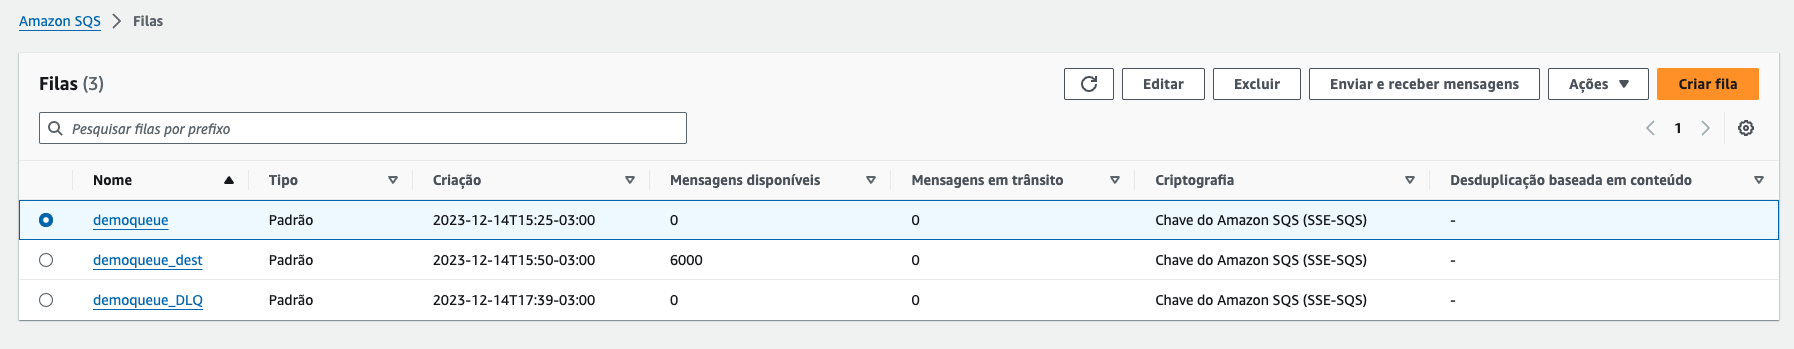
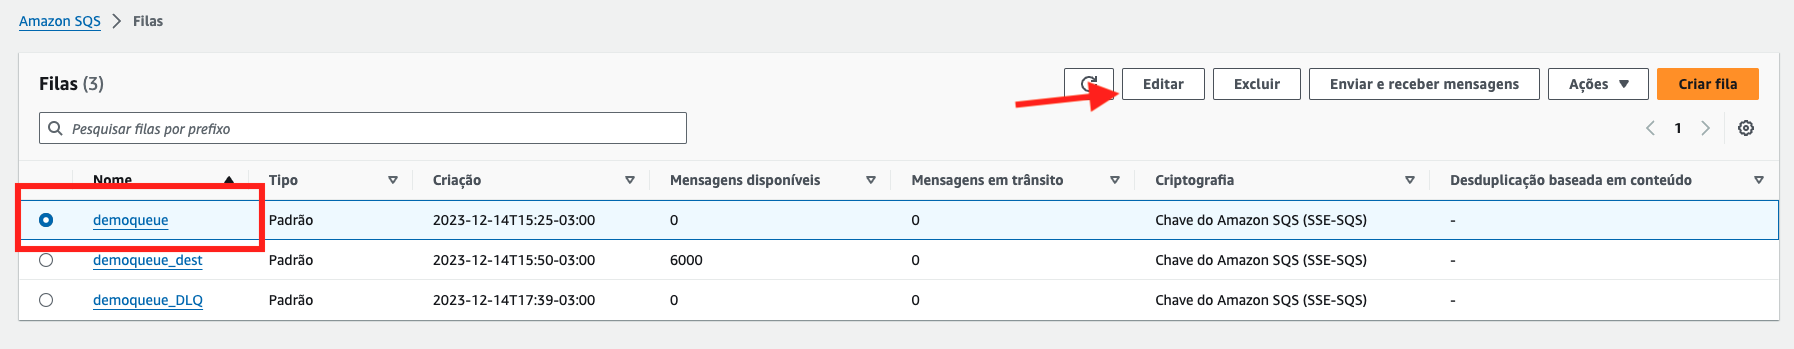
SQS DLQ

Changed region(s): [[0.0, 0.5158, 0.1561, 0.745], [0.5619, 0.2292, 0.6243, 0.3152]]

diff --git a/05-SQS/02 - DLQ/README.md b/05-SQS/02 - DLQ/README.md
@@ -2,15 +2,286 @@
 
 1. No terminal do IDE criado no cloud9 execute o comando `cd ~/environment/fiap-cloud-computing-tutorials/05-SQS/02\ -\ DLQ/` para entrar na pasta que fara este exercicio.
 2. Na [aba do SQS](https://us-east-1.console.aws.amazon.com/sqs/v3/home?region=us-east-1#/create-queue) crie uma fila com o mesmo nome de uma fila já criada e coloque o sulfixo '_DLQ', ficará `demoqueue_DLQ`. Mantenha todo o restante das informação com o que esta pré preenchido.
+
+![](img/dlq-1-1.png)
+
+<details>
+<summary> 
+
+**Explicação**
+
+</summary>
+
+<blockquote>
+
+No Amazon SQS, uma **DLQ (Dead-Letter Queue)**, ou **Fila de Mensagens Mortas**, é uma fila especial onde são armazenadas mensagens que não puderam ser processadas com sucesso após várias tentativas. Esse conceito ajuda a isolar e gerenciar mensagens que causam falhas no sistema, possibilitando a análise e resolução de problemas específicos sem comprometer o fluxo normal de mensagens.
+
+### Conceito de DLQ
+
+1. **Motivação da DLQ**:
+   - Quando uma mensagem na fila principal (chamada de fila "source" ou "fonte") falha em ser processada, ela retorna à fila para uma nova tentativa após o fim do **Visibility Timeout**. Se essa mensagem falhar continuamente, ela pode congestionar a fila e prejudicar a performance do sistema.
+   - A DLQ permite que essas mensagens problemáticas sejam enviadas para uma fila separada após um número máximo de tentativas, isolando-as e liberando a fila principal para que apenas mensagens processáveis permaneçam.
+
+2. **Funcionamento**:
+   - Em vez de continuar tentando processar mensagens que falham repetidamente, a DLQ armazena essas mensagens. Dessa forma, as mensagens na DLQ podem ser revisadas para identificar a causa do erro (por exemplo, dados inválidos ou ausência de um recurso específico), sem interromper o fluxo de processamento normal da fila principal.
+   - Ao analisar as mensagens na DLQ, os desenvolvedores podem encontrar padrões de erro e implementar correções.
+
+### Redrive Policy
+
+A **Redrive Policy** é a política que define como e quando as mensagens devem ser movidas da fila principal para a DLQ. Ela é configurada diretamente na fila principal e inclui duas configurações principais:
+
+1. **deadLetterTargetArn**: 
+   - Especifica o ARN (Amazon Resource Name) da DLQ associada. Esse é o identificador da fila para onde as mensagens problemáticas serão redirecionadas.
+
+2. **maxReceiveCount**:
+   - Define o **número máximo de tentativas de processamento** de uma mensagem na fila principal antes de ser movida para a DLQ.
+   - Se uma mensagem atinge esse limite (por exemplo, 5 tentativas), ela é automaticamente enviada para a DLQ para evitar novas tentativas e evitar congestionamento na fila principal.
+
+### Exemplo de Configuração da Redrive Policy
+
+A **Redrive Policy** poderia ser configurada na fila principal com um JSON assim:
+
+```json
+{
+  "deadLetterTargetArn": "arn:aws:sqs:us-east-1:123456789012:my-dead-letter-queue",
+  "maxReceiveCount": 5
+}
+```
+
+Neste exemplo, a fila principal tenta processar cada mensagem até 5 vezes. Após essas tentativas falharem, a mensagem é transferida automaticamente para a **DLQ** (especificada pelo **`deadLetterTargetArn`**) para investigação.
+
+### Benefícios da DLQ e Redrive Policy
+
+- **Isolamento de Mensagens Problemáticas**: A DLQ evita que mensagens repetidamente problemáticas impactem o fluxo normal de mensagens.
+- **Facilidade de Diagnóstico**: A DLQ armazena apenas mensagens que falharam continuamente, permitindo análise e diagnóstico direcionados para resolver a causa das falhas.
+- **Gerenciamento de Fluxo**: Com a **Redrive Policy**, o fluxo de mensagens problemáticas pode ser controlado automaticamente, garantindo que mensagens problemáticas não sobrecarreguem a fila principal.
+
+Para mais detalhes, consulte a [documentação oficial sobre DLQs do Amazon SQS](https://docs.aws.amazon.com/pt_br/AWSSimpleQueueService/latest/SQSDeveloperGuide/sqs-dead-letter-queues.html).
+
+</blockquote>
+
+</details>
+
+
 3. De volta ao painel de [listagem de filas do SQS](https://us-east-1.console.aws.amazon.com/sqs/v3/home?region=us-east-1#/queues), selecione a fila `Demoqueue` clique em `Editar` no canto superior direito
+
 ![img/dlq-01.png](img/dlq-01.png)
+
 4. Preencha as informações como nas imagens, e clique me 'Salvar'. Na primeira você esta alterando o tempo de visibilidade para 1 segundo para que a mensagem volte para fila 1 segundo após ter sido entregue a um consumidor e não retirada da fila nesse meio tempo. A segunda configuração, você esta adicionando a demoqueue_DLQ como fila de mensagem mortas e configurando para que mensagens entregues mais de uma vez sejam enviadas a ela.
+
 ![img/dlq-02.png](img/dlq-02.png)
+
 ![img/dlq-02-1.png](img/dlq-02-1.png)
-5. Altere o arquivo put.py colocando a URL da fila demoqueue nele, para abrir utilize `c9 open put.py` no terminal do cloud9. Para pegar a URL você pode entrar no console do SQS ou através do comando `aws sqs get-queue-url --queue-name demoqueue | jq .QueueUrl`
-6. execute o comando `python3 put.py` no terminal
-7. Faça as alterações no arquivo consumer.py(`c9 open consumer.py`)conforme a imagem a baixo, não esquecendo de colcoar sua URL da demoqueue:
+
+1. Altere o arquivo put.py colocando a URL da fila demoqueue nele, para abrir utilize `c9 open put.py` no terminal do cloud9. Para pegar a URL você pode entrar no console do SQS ou através do comando `aws sqs get-queue-url --queue-name demoqueue | jq .QueueUrl`
+
+<details>
+<summary> 
+
+**Explicação do arquivo put.py**
+
+</summary>
+
+<blockquote>
+
+Esse código em Python envia um grande número de mensagens para uma fila **Amazon SQS** (Simple Queue Service) usando uma classe personalizada chamada **`SqsHandler`**. Ele cria um total de 3000 mensagens, divide-as em lotes de até 10 mensagens cada (limite máximo para envios em lote no SQS) e envia cada lote para a fila SQS de forma sequencial.
+
+### Explicação do Código
+
+```python
+from sqsHandler import SqsHandler
+```
+- Importa a classe **`SqsHandler`** de um módulo personalizado chamado **`sqsHandler`**. Essa classe provavelmente encapsula métodos para interagir com a fila SQS, como enviar mensagens em lote.
+
+### Preparação das Mensagens
+
+```python
+mensagens = []
+numMsgsToCreate = 3000
+for num in range(numMsgsToCreate):
+    mensagens.append({'Id': str(num), 'MessageBody': str(num)})
+```
+- **`mensagens = []`**: Inicializa uma lista vazia chamada **`mensagens`** que armazenará todas as mensagens a serem enviadas para a fila SQS.
+- **`numMsgsToCreate = 3000`**: Define o número de mensagens a serem criadas. Aqui, o código cria **3000 mensagens**.
+- **`for num in range(numMsgsToCreate):`**: Itera **3000 vezes**, de 0 até 2999.
+  - **`mensagens.append({'Id': str(num), 'MessageBody': str(num)})`**: Em cada iteração, cria um dicionário que representa uma mensagem. O dicionário tem duas chaves:
+    - **`'Id'`**: Um identificador único para cada mensagem, usando o valor de **`num`** como string.
+    - **`'MessageBody'`**: O conteúdo da mensagem, também usando o valor de **`num`** como string.
+
+No final desse laço, a lista **`mensagens`** contém 3000 mensagens, cada uma com um identificador e um corpo de mensagem.
+
+### Divisão das Mensagens em Lotes
+
+```python
+splitMsg = [mensagens[x:x+10] for x in range(0, len(mensagens), 10)]
+```
+- Esse código utiliza uma **list comprehension** para dividir a lista **`mensagens`** em sublistas de até **10 mensagens cada**. O Amazon SQS permite o envio de no máximo **10 mensagens por vez** em um único envio em lote, então essa divisão é necessária para garantir que cada envio esteja dentro do limite.
+- **`splitMsg`** conterá uma lista de sublistas, onde cada sublista representa um lote de até 10 mensagens.
+
+### Envio dos Lotes para a Fila SQS
+
+```python
+sqs = SqsHandler('<SUA URL DE FILA SQS>')
+for lista in splitMsg:    
+    print(type(lista))
+    print(str(lista))
+    sqs.sendBatch(lista)
+```
+
+1. **`sqs = SqsHandler('<SUA URL DE FILA SQS>')`**: 
+   - Cria uma instância da classe **`SqsHandler`**, que é configurada para interagir com a fila SQS de destino. 
+   - A URL da fila SQS (que precisa ser substituída por uma URL real) é passada para o construtor **`SqsHandler`**.
+
+2. **Iteração sobre os Lotes**:
+   ```python
+   for lista in splitMsg:    
+       print(type(lista))
+       print(str(lista))
+       sqs.sendBatch(lista)
+   ```
+   - **`for lista in splitMsg:`**: Itera sobre cada sublista (lote) na lista **`splitMsg`**.
+   - **`print(type(lista))`** e **`print(str(lista))`**: Exibe o tipo e o conteúdo do lote para monitoramento. **`type(lista)`** retorna **`list`** e **`str(lista)`** mostra o conteúdo de cada lote de até 10 mensagens.
+   - **`sqs.sendBatch(lista)`**: Chama o método **`sendBatch`** da instância **`sqs`** para enviar o lote de mensagens para a fila SQS. Esse método provavelmente usa o método `send_message_batch` do Boto3 para enviar as mensagens em lote à fila.
+
+### Resumo
+
+1. O código cria 3000 mensagens com identificadores e conteúdos simples.
+2. As mensagens são divididas em lotes de até 10, conforme o limite do SQS.
+3. Cada lote é enviado para a fila SQS usando o método **`sendBatch`** da classe **`SqsHandler`**.
+
+Esse método é eficiente para enviar grandes volumes de mensagens para o SQS em lotes, o que reduz a quantidade de chamadas à API e ajuda a otimizar o processo de envio.
+
+</blockquote>
+
+</details>
+
+<details>
+<summary> 
+
+**Explicação do comando que pega URL da fila**
+
+</summary>
+
+<blockquote>
+
+Este comando em **AWS CLI** é utilizado para recuperar a URL de uma fila **Amazon SQS** chamada **`demoqueue`** e exibi-la no terminal em formato legível usando o **`jq`**. Vamos detalhar cada parte do comando:
+
+### Comando Completo
+
+```bash
+aws sqs get-queue-url --queue-name demoqueue | jq .QueueUrl
+```
+
+### Explicação do Comando
+
+1. **`aws sqs get-queue-url`**:
+   - Esta parte do comando usa a **AWS CLI** para interagir com o serviço **Amazon SQS** (Simple Queue Service).
+   - **`get-queue-url`**: Este subcomando solicita a URL de uma fila SQS existente. A URL da fila é necessária para realizar operações com ela, como envio ou recebimento de mensagens.
+
+2. **`--queue-name demoqueue`**:
+   - **`--queue-name`**: Especifica o nome da fila SQS para a qual queremos obter a URL.
+   - **`demoqueue`**: É o nome da fila SQS para a qual a URL será recuperada. Esse valor deve ser alterado para o nome real da sua fila, caso você tenha outra fila em uso.
+
+3. **`| jq .QueueUrl`**:
+   - **`|`**: O operador de **pipe** envia a saída do comando anterior para o comando seguinte.
+   - **`jq .QueueUrl`**: `jq` é uma ferramenta de linha de comando para processar e manipular dados JSON.
+     - **`.QueueUrl`**: Esse argumento filtra o JSON resultante para exibir apenas o valor da chave **`QueueUrl`**, que contém a URL da fila.
+
+### Funcionamento do Comando
+
+- O comando **`aws sqs get-queue-url --queue-name demoqueue`** retorna um JSON contendo a URL da fila, por exemplo:
+  ```json
+  {
+    "QueueUrl": "https://sqs.us-east-1.amazonaws.com/123456789012/demoqueue"
+  }
+  ```
+- O **`jq .QueueUrl`** extrai apenas o valor da chave **`QueueUrl`**, exibindo-o diretamente no terminal:
+  ```plaintext
+  https://sqs.us-east-1.amazonaws.com/123456789012/demoqueue
+  ```
+
+### Finalidade do Comando
+
+Esse comando é útil quando você precisa da URL exata de uma fila SQS para usá-la em outros comandos ou scripts, especialmente em operações que exigem o endpoint da fila, como envio ou recebimento de mensagens.
+
+</blockquote>
+
+</details>
+
+2. execute o comando `python3 put.py` no terminal
+3. Faça as alterações no arquivo consumer.py(`c9 open consumer.py`)conforme a imagem a baixo, não esquecendo de colcoar sua URL da demoqueue forneciada pelo comando anterior:
+
 ![img/dlq-03.png](img/dlq-03.png)
-8. Execute o comando `python3 consumer.py` no terminal
-9. Observe que enquanto roda o script a fila DLQ é populada no console do SQS. [Link para painel SQS](https://console.aws.amazon.com/sqs/v2/home?region=us-east-1#/queues)
+
+<details>
+<summary> 
+
+**Explicação**
+
+</summary>
+
+<blockquote>
+
+Além do **Visibility Timeout** de **1 segundo**, este código interage com uma fila SQS que possui uma **DLQ (Dead-Letter Queue)** configurada para mover mensagens após **1 tentativa de recebimento falhada**. Essa configuração faz com que a mensagem seja enviada para a DLQ se ela for lida uma vez e não for deletada da fila principal (considerada como "falha de processamento").
+
+### Explicação do Código
+
+```python
+from sqsHandler import SqsHandler
+import time
+
+sqs = SqsHandler('https://sqs.us-east-1.amazonaws.com/716341060650/demoqueue')
+```
+
+- **`from sqsHandler import SqsHandler`**: Importa a classe **`SqsHandler`**, que encapsula a lógica para interagir com a fila SQS (operações de recebimento, envio e exclusão de mensagens).
+- **`import time`**: Importa o módulo **time** para usar a função **`sleep`**, que pausa a execução do código por um determinado tempo.
+- **`sqs = SqsHandler('https://sqs.us-east-1.amazonaws.com/716341060650/demoqueue')`**: Cria uma instância de **`SqsHandler`** para interagir com a fila SQS chamada **`demoqueue`**.
+
+### Loop de Recuperação de Mensagens
+
+```python
+while(True):
+    response = sqs.getMessage(10)
+    if(len(response['Messages']) == 0):
+        break
+
+    time.sleep(1)
+```
+
+- **`while(True):`**: Inicia um loop infinito que continuará até que não haja mais mensagens disponíveis na fila.
+  
+- **`response = sqs.getMessage(10)`**: Tenta recuperar até **10 mensagens** da fila usando **`sqs.getMessage`**.
+  
+- **`if(len(response['Messages']) == 0): break`**: Verifica se não há mensagens retornadas na chamada. Se o valor for zero, o loop é interrompido.
+  
+- **`time.sleep(1)`**: Pausa a execução por **1 segundo** antes da próxima tentativa de leitura.
+
+### Comportamento com Visibility Timeout de 1 Segundo e DLQ Configurada
+
+1. **Leitura e Invisibilidade Temporária da Mensagem**:
+   - Quando uma mensagem é lida da fila com **`sqs.getMessage(10)`**, ela se torna invisível para outros consumidores pelo período do **Visibility Timeout**, que é de apenas **1 segundo**.
+   - Durante esse tempo, a mensagem fica "em trânsito" e não pode ser lida por outros consumidores.
+
+2. **Reaparecimento da Mensagem e Efeito da DLQ**:
+   - Após o **Visibility Timeout** de 1 segundo, a mensagem reaparece na fila, pois o código não a remove (não exclui).
+   - Como a **DLQ** (Dead-Letter Queue) está configurada para mover mensagens após **1 tentativa de recebimento falhada**, a mensagem será transferida automaticamente para a DLQ na próxima tentativa de leitura.
+   - Isso ocorre porque a configuração de **1 tentativa de recebimento** indica que, após a mensagem ser recebida e não excluída uma vez, ela será enviada para a DLQ.
+
+3. **Processo Final da Mensagem**:
+   - Com o **Visibility Timeout** curto e a **Redrive Policy** configurada para mover a mensagem após 1 tentativa de leitura, a mensagem é lida uma vez, reaparece na fila, e é enviada para a DLQ no ciclo seguinte.
+   - Como resultado, a mensagem não ficará em um loop infinito de reprocessamento, mas será transferida para a DLQ após a primeira falha de processamento.
+
+### Conclusão
+
+Neste cenário, o **Visibility Timeout** de 1 segundo combinado com a **Redrive Policy** de **1 tentativa** na DLQ faz com que cada mensagem seja lida uma vez, se torne invisível por 1 segundo, e seja movida para a DLQ após a segunda leitura. Isso evita reprocessamento infinito, mas direciona as mensagens que falham na exclusão para a DLQ. Essa configuração é útil para capturar e analisar mensagens problemáticas sem sobrecarregar a fila principal.
+
+Para mais informações sobre **DLQs** e **Visibility Timeout** no SQS, consulte a [documentação oficial da AWS](https://docs.aws.amazon.com/pt_br/AWSSimpleQueueService/latest/SQSDeveloperGuide/sqs-dead-letter-queues.html).
+
+</blockquote>
+
+</details>
+
+4. Execute o comando `python3 consumer.py` no terminal
+2. Observe que enquanto roda o script a fila DLQ é populada no console do SQS. [Link para painel SQS](https://console.aws.amazon.com/sqs/v2/home?region=us-east-1#/queues)
+    
     ![img/dlq-04.png](img/dlq-04.png)
